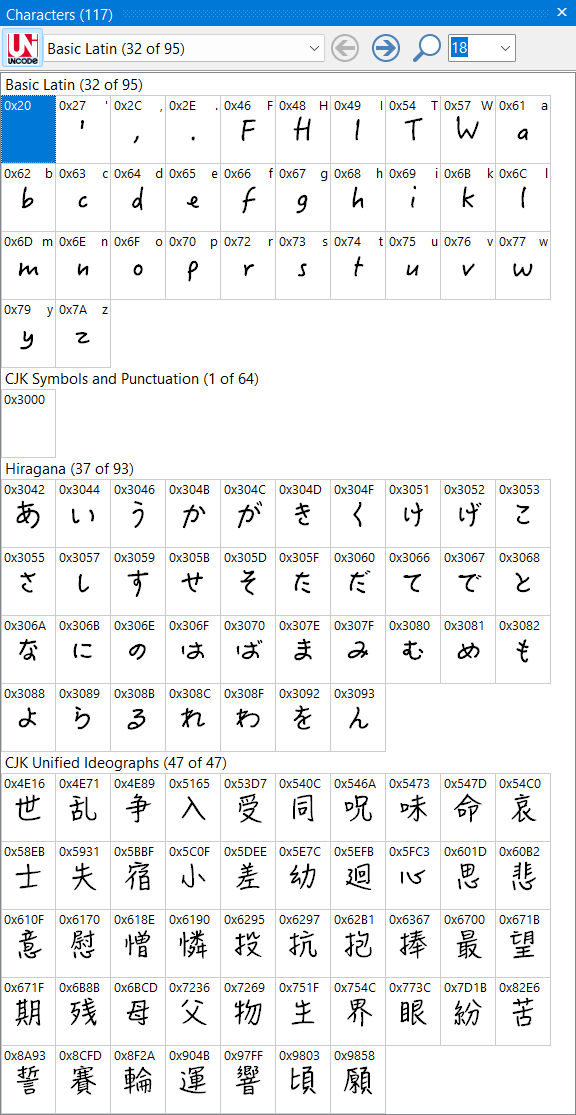
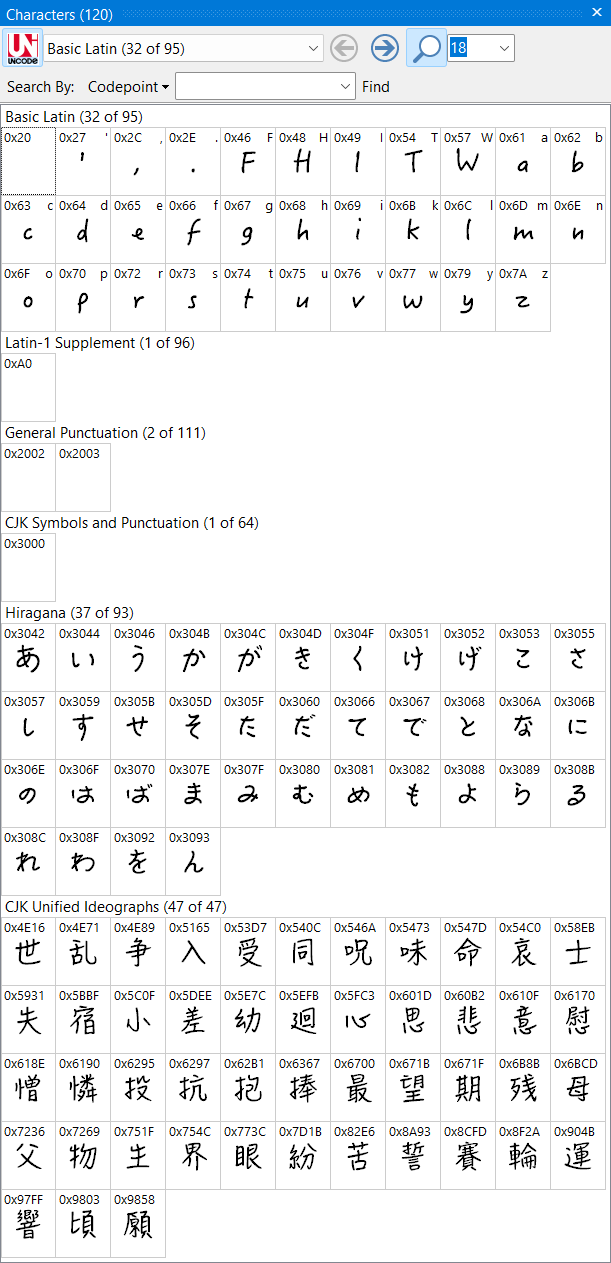
update documentation

Changed region(s): [[0.0, 0.3964, 1.0, 1.0], [0.0, 0.0, 1.0, 0.3659]]

diff --git a/README.md b/README.md
@@ -16,7 +16,6 @@ You're gonna need the following:
 - dotnet 6. Can be downloaded from [here](https://dotnet.microsoft.com/en-us/download)
 - Python3. Download link [here](https://www.python.org/downloads/)
 - fontTools : `python3 -m pip install fonttools`
-- brotli : `python3 -m pip install brotli`
 
 
 **Install stripfont:**  
@@ -44,12 +43,12 @@ It takes two parameters:
 - `--font-file`: full path of the font file we want to strip 
 - `--ass-file`: full path of an ASS file as a source to detect the characters we want to keep
 
-If everything goes right, the newly created font will be available in the directory of the source font file, with a randomly generated file name like `XB0CGDCB.ttf`.
+If everything goes right, the newly created font will be available in the directory of the source font file, its name being suffixed with `-subset`.
 
 **Example:**
 ```bash
 yuki.n@chiba$ ./stripfont --ass-file ~/_github/_wip/niehime/subs/NCOP1/NCOP1.ass --font-file ~/_github/_wip/niehime/fonts/DFHanziPenStdN-W5.otf 
-OpenType font OSIOXC0X.ttf successfully created.
+Font file successfully created.
 yuki.n@chiba$
 ```
 
@@ -63,13 +62,12 @@ Here are a few examples using the following fonts:
 
 |Font file|Originial file sizesize|Total # of glyphs|# of glyphs used|Stripped file size|
 |:---|---:|---:|---:|---:|
-|DFHanziPenStdN-W5.otf|6.64 MB|8310|117|102 KB|
-|FOT-MatisseHatsuhiPro-B.otf|9.4 MB|9804|98|310 KB|
-|A-OTF-SuzumushiStd-Medium.otf|3.77M|8207|17|14.1 KB|
+|DFHanziPenStdN-W5.otf|6.64 MB|8310|120|102 KB|
+|FOT-MatisseHatsuhiPro-B.otf|9.4 MB|9804|132|310 KB|
+|A-OTF-SuzumushiStd-Medium.otf|3.77M|8207|52|14.7 KB|
 
 For a more visual comparison, you can check [this page](sample/previews.md).
 
 ## What's next?
-- Because I needed this tool like yesterday, I didn't bother to package it ~~properly~~ at all. That's on my TODO list.
-- If you properly examine the original and generated fonts, you'll notice there might be some differences in the metadatas (especially Family and Style). I probably missed a parameter when using fonTools. For now, it works, but I'll have a look at that.
+- Because I needed this tool like yesterday, I didn't bother to package it ~~properly~~ at all.That's on my [TODO list](https://github.com/nipponsei/stripfont/issues/2).
 - I didn't check (yet) if there's a good ASS parser in dotnet out there. Maybe I'll give it a go.
